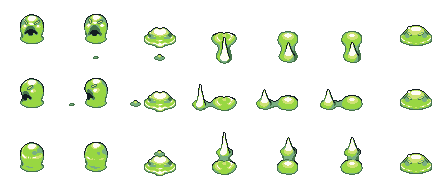
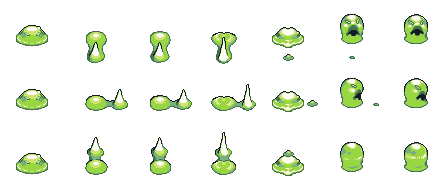
Add monster slow, scene-change guard, and misc fixes
Add slow mechanics to Monster (slowTimer/slowRatio + ApplySlow) and make AIMovement respect slowRatio. EntityManager now applies slow on ARCHER skill hits and adjusts ultimate gauge charging. Add SceneManager::IsSceneChangeRequested and early-return in DungeonScene::HandleEvent to avoid handling events during scene transitions. Include LICH and GIANT_SLIME in Animation attack-direction logic and remove obsolete commented code. Change window title to "DungeonHeros", reorder project include dirs in the .vcxproj, replace big-slime attack sprite, and update SaveData.json player state.

diff --git a/DungeonHeros/DungeonHeros/Monster.cpp b/DungeonHeros/DungeonHeros/Monster.cpp
@@ -115,7 +115,7 @@ sf::Vector2f Monster::AIMovement(float deltaTime)
         return { 0.f, 0.f };
     }
 
-    Move(direction, deltaTime);
+    Move(direction, deltaTime * slowRatio);
 
     return direction;
 }
@@ -159,6 +159,17 @@ void Monster::UpdateLogic(float deltaTime)
 {
     attackTriggered = false;
 
+    if (slowTimer > 0.f)
+    {
+        slowTimer -= deltaTime;
+
+        if (slowTimer <= 0.f)
+        {
+            slowTimer = 0.f;
+            slowRatio = 1.f;
+        }
+    }
+
     if (attackCooldown > 0.f)
     {
         attackCooldown -= deltaTime;
@@ -177,7 +188,7 @@ void Monster::UpdateLogic(float deltaTime)
 
     hpBar->SetValue(GetHp());
 
-    hpBar->SetPosition({ position.x,position.y - 45.f });
+    hpBar->SetPosition({ position.x, position.y - 45.f });
 }
 
 void Monster::Render(sf::RenderWindow& window)
@@ -212,4 +223,10 @@ std::vector<Projectile*> Monster::TakePendingProjectiles()
 void Monster::SetAttakRange(float range)
 {
     attackRange = range;
+}
+
+void Monster::ApplySlow(float ratio, float duration)
+{
+    slowRatio = ratio;
+    slowTimer = duration;
 }

diff --git a/DungeonHeros/DungeonHeros/Monster.h b/DungeonHeros/DungeonHeros/Monster.h
@@ -32,6 +32,9 @@ private:
     float maxAttackCooldown;
     float attackCooldown;
 
+    float slowTimer = 0.f;
+    float slowRatio = 1.f;
+
 protected:
     GaugeBar* hpBar;
     bool showHpBar = true;
@@ -76,4 +79,6 @@ public:
     void SetTarget(Player* target) { this->target = target; }
     void SetShowHpBar(bool show) { showHpBar = show; }
     virtual void SetAttakRange(float range);
+    void ApplySlow(float ratio, float duration);
+
 };

diff --git a/DungeonHeros/DungeonHeros/EntityManager.h b/DungeonHeros/DungeonHeros/EntityManager.h
@@ -36,9 +36,9 @@ public:
     void SetPlayer(Player* player) { this->player = player; }
     Player* GetPlayer() const { return player; }
 
+    void AddMonster(Monster* monster);
     const std::vector<Monster*>& GetMonsters() const { return monsters; }
 
-    void AddMonster(Monster* monster);
     void AddProjectile(Projectile* projectile);
 
     void ClearMonsters();

diff --git a/DungeonHeros/DungeonHeros/DungeonScene.cpp b/DungeonHeros/DungeonHeros/DungeonScene.cpp
@@ -95,6 +95,11 @@ void DungeonScene::Update(float deltaTime, sf::RenderWindow& window)
 
 void DungeonScene::HandleEvent(const sf::Event& event,sf::RenderWindow& window)
 {
+    if (sceneManager->IsSceneChangeRequested())
+    {
+        return;
+    }
+
     if (isGameOver)
     {
         HandleGameOverEvent(event,window);

diff --git a/DungeonHeros/DungeonHeros/Game.cpp b/DungeonHeros/DungeonHeros/Game.cpp
@@ -11,7 +11,7 @@ Game::Game()
             Constants::WINDOW_WIDTH,
             Constants::WINDOW_HEIGHT
             }),
-        "Zelda-like RPG"
+        "DungeonHeros"
     ),
     entityManager(),
     sceneManager(&entityManager)

diff --git a/DungeonHeros/DungeonHeros/SceneManager.cpp b/DungeonHeros/DungeonHeros/SceneManager.cpp
@@ -75,6 +75,7 @@ void SceneManager::ApplySceneChange()
 
 void SceneManager::HandleEvent(const sf::Event& event, sf::RenderWindow& window)
 {
+
     if (currentScene != NULL)
     {
         currentScene->HandleEvent(event, window);
